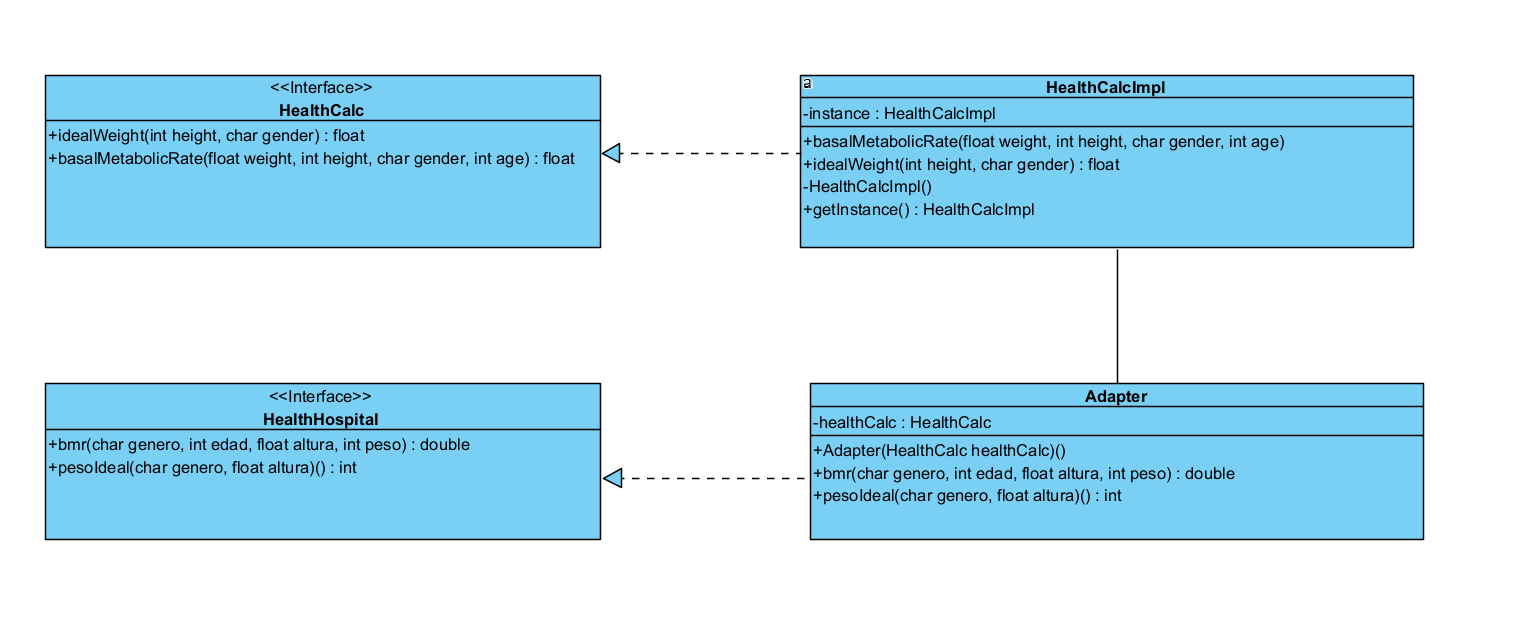
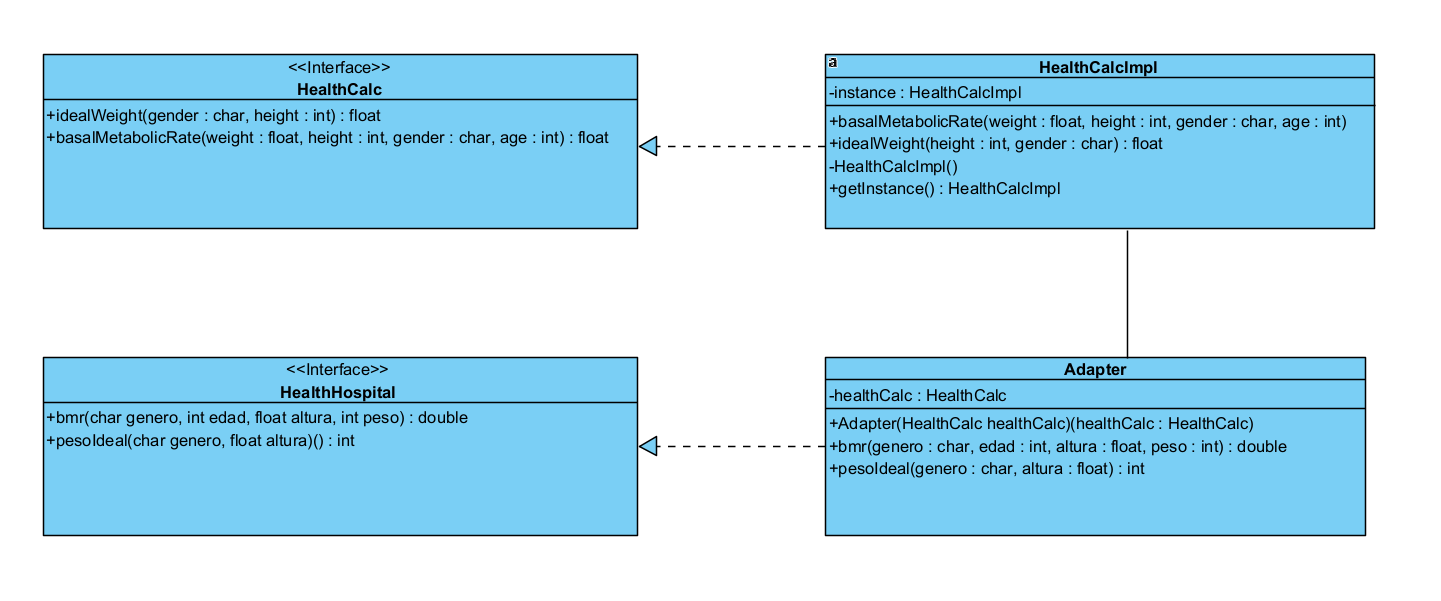
Cambio en los parametros de los diagramas

Changed region(s): [[0.0312, 0.0899, 0.9681, 0.4193], [0.4997, 0.5691, 0.9681, 0.8985], [0.0312, 0.5691, 0.4684, 0.8985]]

diff --git a/src/test/java/healthcalc/HealthCalcTest.java b/src/test/java/healthcalc/HealthCalcTest.java
@@ -22,31 +22,31 @@ public class HealthCalcTest {
 	//1. Altura negativa
 	@Test
 	public void alturaNegIW() {
-		HealthCalcImpl hclc= new HealthCalcImpl();
-		assertThrows(RuntimeException.class, () -> hclc.idealWeight(-165, 'm'));
+		HealthCalcImpl hclc =  HealthCalcImpl.getInstance();
+				assertThrows(RuntimeException.class, () -> hclc.idealWeight(-165, 'm'));
 	}
 
 	//2. Altura distinta de 0
 	@Test
 	public void altura0() {
-		HealthCalcImpl hclc= new HealthCalcImpl();
+		HealthCalcImpl hclc =  HealthCalcImpl.getInstance();
 		assertThrows(RuntimeException.class, () -> hclc.idealWeight(0, 'm'));
 	}
 
 	//3. Genero distinto de 'm' y de 'w'
 	@Test
 	public void generoDistinto() {
-		HealthCalcImpl hclc= new HealthCalcImpl();
+		HealthCalcImpl hclc =  HealthCalcImpl.getInstance();
 		assertThrows(RuntimeException.class, () -> hclc.idealWeight(167, 'u'));
 	}
 
 	//4. Valor correcto, 'w'
 	@Test
 	public void ValorCorrectoWIW(){
-		HealthCalc hclc = new HealthCalcImpl();
+		HealthCalcImpl hclc =  HealthCalcImpl.getInstance();
         
 		try {
-			assertEquals(58.4, hclc.idealWeight(164, 'w'), 0.0001);
+			assertEquals(58.4, hclc.idealWeight(164, 'w'), 1);
         } catch (Exception e) {
             System.out.println("Error: " + e.getMessage());
         }
@@ -57,10 +57,10 @@ public class HealthCalcTest {
 
 	@Test
 	public void ValorCorrectoMIW(){
-		HealthCalc hclc = new HealthCalcImpl();
+		HealthCalcImpl hclc =  HealthCalcImpl.getInstance();
         
 		try {
-            assertEquals(68.75, hclc.idealWeight(175, 'm'), 0.0001);
+            assertEquals(69, hclc.idealWeight(175, 'm'), 0.0001);
 		} catch (Exception e) {
             System.out.println("Error: " + e.getMessage());
         }
@@ -72,21 +72,21 @@ public class HealthCalcTest {
 	//1. Altura no negativa basalMetabolicRate
 	@Test
 	public void alturaNegBMR() {
-		HealthCalcImpl hclc= new HealthCalcImpl();
+		HealthCalcImpl hclc =  HealthCalcImpl.getInstance();
 		assertThrows(RuntimeException.class, () -> hclc.basalMetabolicRate(52, -160, 'm', 17));	
 	}
 
 	//2. Altura distinta de 0 basalMetabolicRate
 	@Test
 	public void altura0BMR() {
-		HealthCalcImpl hclc= new HealthCalcImpl();
+		HealthCalcImpl hclc =  HealthCalcImpl.getInstance();
 		assertThrows(RuntimeException.class, () -> hclc.basalMetabolicRate(74, 0, 'm', 86));	
 	}
 
 	//3. Genero distinto de 'w' y de 'm'
 	@Test
 	public void generoDistintoBMR() {
-		HealthCalcImpl hclc= new HealthCalcImpl();
+		HealthCalcImpl hclc =  HealthCalcImpl.getInstance();
 		assertThrows(RuntimeException.class, () -> hclc.basalMetabolicRate(52, 160, 'f', 17));	
 	}
 
@@ -94,7 +94,7 @@ public class HealthCalcTest {
 	//4. Peso igual que 0
 	@Test
 	public void peso0BMR() {
-		HealthCalcImpl hclc= new HealthCalcImpl();
+		HealthCalcImpl hclc =  HealthCalcImpl.getInstance();
 		assertThrows(RuntimeException.class, () -> hclc.basalMetabolicRate(0, 192, 'm', 34));	
 	}
 
@@ -102,7 +102,7 @@ public class HealthCalcTest {
 	//5. Peso menor que 0 basalMetabolicRate
 	@Test
 	public void pesoNegBMR() {
-		HealthCalcImpl hclc= new HealthCalcImpl();
+		HealthCalcImpl hclc =  HealthCalcImpl.getInstance();
 		assertThrows(RuntimeException.class, () -> hclc.basalMetabolicRate(-52, 180, 'm', 17));	
 	}
 
@@ -110,7 +110,7 @@ public class HealthCalcTest {
 	//6. Valor correcto, 'w'
 	@Test
 	public void ValorCorrectoWIWbmr(){
-		HealthCalc hclc = new HealthCalcImpl();
+		HealthCalcImpl hclc =  HealthCalcImpl.getInstance();
         
 		try {
 
@@ -127,7 +127,7 @@ public class HealthCalcTest {
 	//7. Valor correcto, 'm'
 	@Test
 	public void ValorCorrectoMIWbmr(){
-		HealthCalc hclc = new HealthCalcImpl();
+		HealthCalcImpl hclc =  HealthCalcImpl.getInstance();
         
 		try {
 			float resultado = hclc.basalMetabolicRate(24, 110, 'm', 6);

diff --git a/src/main/java/healthcalc/HealthHospital.java b/src/main/java/healthcalc/HealthHospital.java
@@ -8,7 +8,7 @@ public interface HealthHospital {
      *   
      */
 
-    public double bmr(char genero, int edad, float altura, int peso);
+    public double bmr(char genero, int edad, float altura, int peso) throws Exception;
 
 
     
@@ -17,6 +17,6 @@ public interface HealthHospital {
      *   
      */
 
-    public int pesoIdeal(char genero, float altura);
+    public int pesoIdeal(char genero, float altura) throws Exception;
 
 }

diff --git a/src/main/java/healthcalc/gui/vista.java b/src/main/java/healthcalc/gui/vista.java
@@ -1,10 +1,8 @@
 package healthcalc.gui;
 
-import java.awt.EventQueue;
 
 
 import javax.swing.JFrame;
-import javax.swing.JPanel;
 import java.awt.Color;
 import javax.swing.JLabel;
 import javax.swing.JOptionPane;
@@ -16,7 +14,6 @@ import javax.swing.JButton;
 import javax.swing.JSpinner;
 
 import javax.swing.JTextField;
-import javax.swing.Spring;
 
 public class vista {
 

diff --git a/src/main/java/healthcalc/DecoradorAmericano.java b/src/main/java/healthcalc/DecoradorAmericano.java
@@ -7,7 +7,7 @@ public class DecoradorAmericano extends DecoratorHealthHospital {
         //TODO Auto-generated constructor stub
     }
 
-    @Override
+    @Override               
     public int pesoIdeal(char genero,float alturaFt) throws Exception {
         //pasamos la altura introducida en pies a metros
         float alturaMetros = alturaFt * 0.3048f;

diff --git a/src/main/java/healthcalc/HealthStatsProxy.java b/src/main/java/healthcalc/HealthStatsProxy.java
@@ -88,7 +88,6 @@ public class HealthStatsProxy implements  HealthHospital, HealthStats {
         }        
         pesosList.add((float)peso);
         edadesList.add(edad);
-
         double bmr = calculadora.bmr(genero, edad, (float) altura, (int) peso);
         bmrsList.add((float)bmr);
         return  (float) bmr;

diff --git a/src/main/java/healthcalc/MainProxy.java b/src/main/java/healthcalc/MainProxy.java
@@ -12,6 +12,7 @@ public class MainProxy {
     double bmr1 = nuevaCalc.bmr('w', 25, (float)1.4, 45000);
     double bmr2 = nuevaCalc.bmr('m', 50, (float)1.8, 70000);
 
+    
     System.out.println("BMR Paciente 1: " + bmr1 );
     System.out.println("BMR Paciente 2: " + bmr2 );
     System.out.println("    ");

diff --git a/src/main/java/healthcalc/gui/controlador.java b/src/main/java/healthcalc/gui/controlador.java
@@ -4,7 +4,6 @@ import java.awt.event.ActionListener;
 
 import healthcalc.HealthCalcImpl;
 
-import java.awt.Color;
 import java.awt.event.ActionEvent;
 
 
